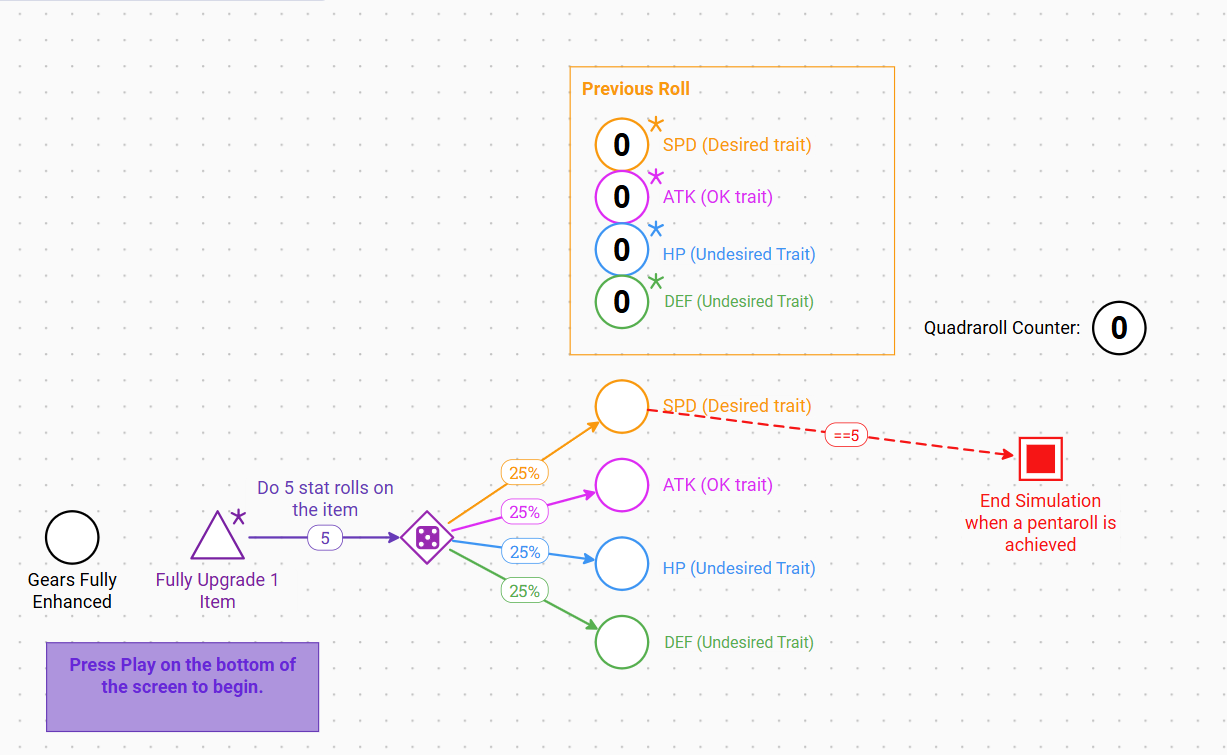
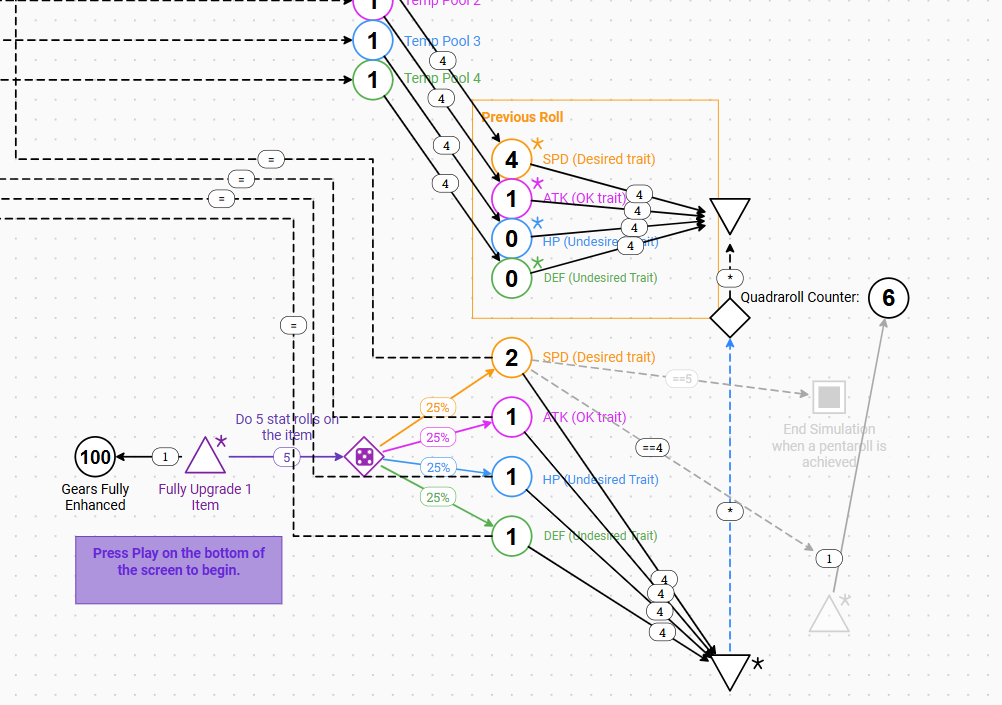
changed image

diff --git a/_posts/2024-12-20-Machinations.md b/_posts/2024-12-20-Machinations.md
@@ -7,7 +7,9 @@ categories: systemsDesign
 ![Swiss Alps](https://isaacwkm.github.io/assets/images/epicSevenMachinationThumbnail.png)
 
 
-## MathJax
+*Gacha / JRPG genres often employ a random stat distribution to player equipment as they enhance them. Diagrams help visualize how likely a player will achieve their gear-related goals in their playtime.*
+
+## Machinations
 
 You can enable MathJax by setting `mathjax: true` on a page or globally in the `_config.yml`. Some examples:
 
